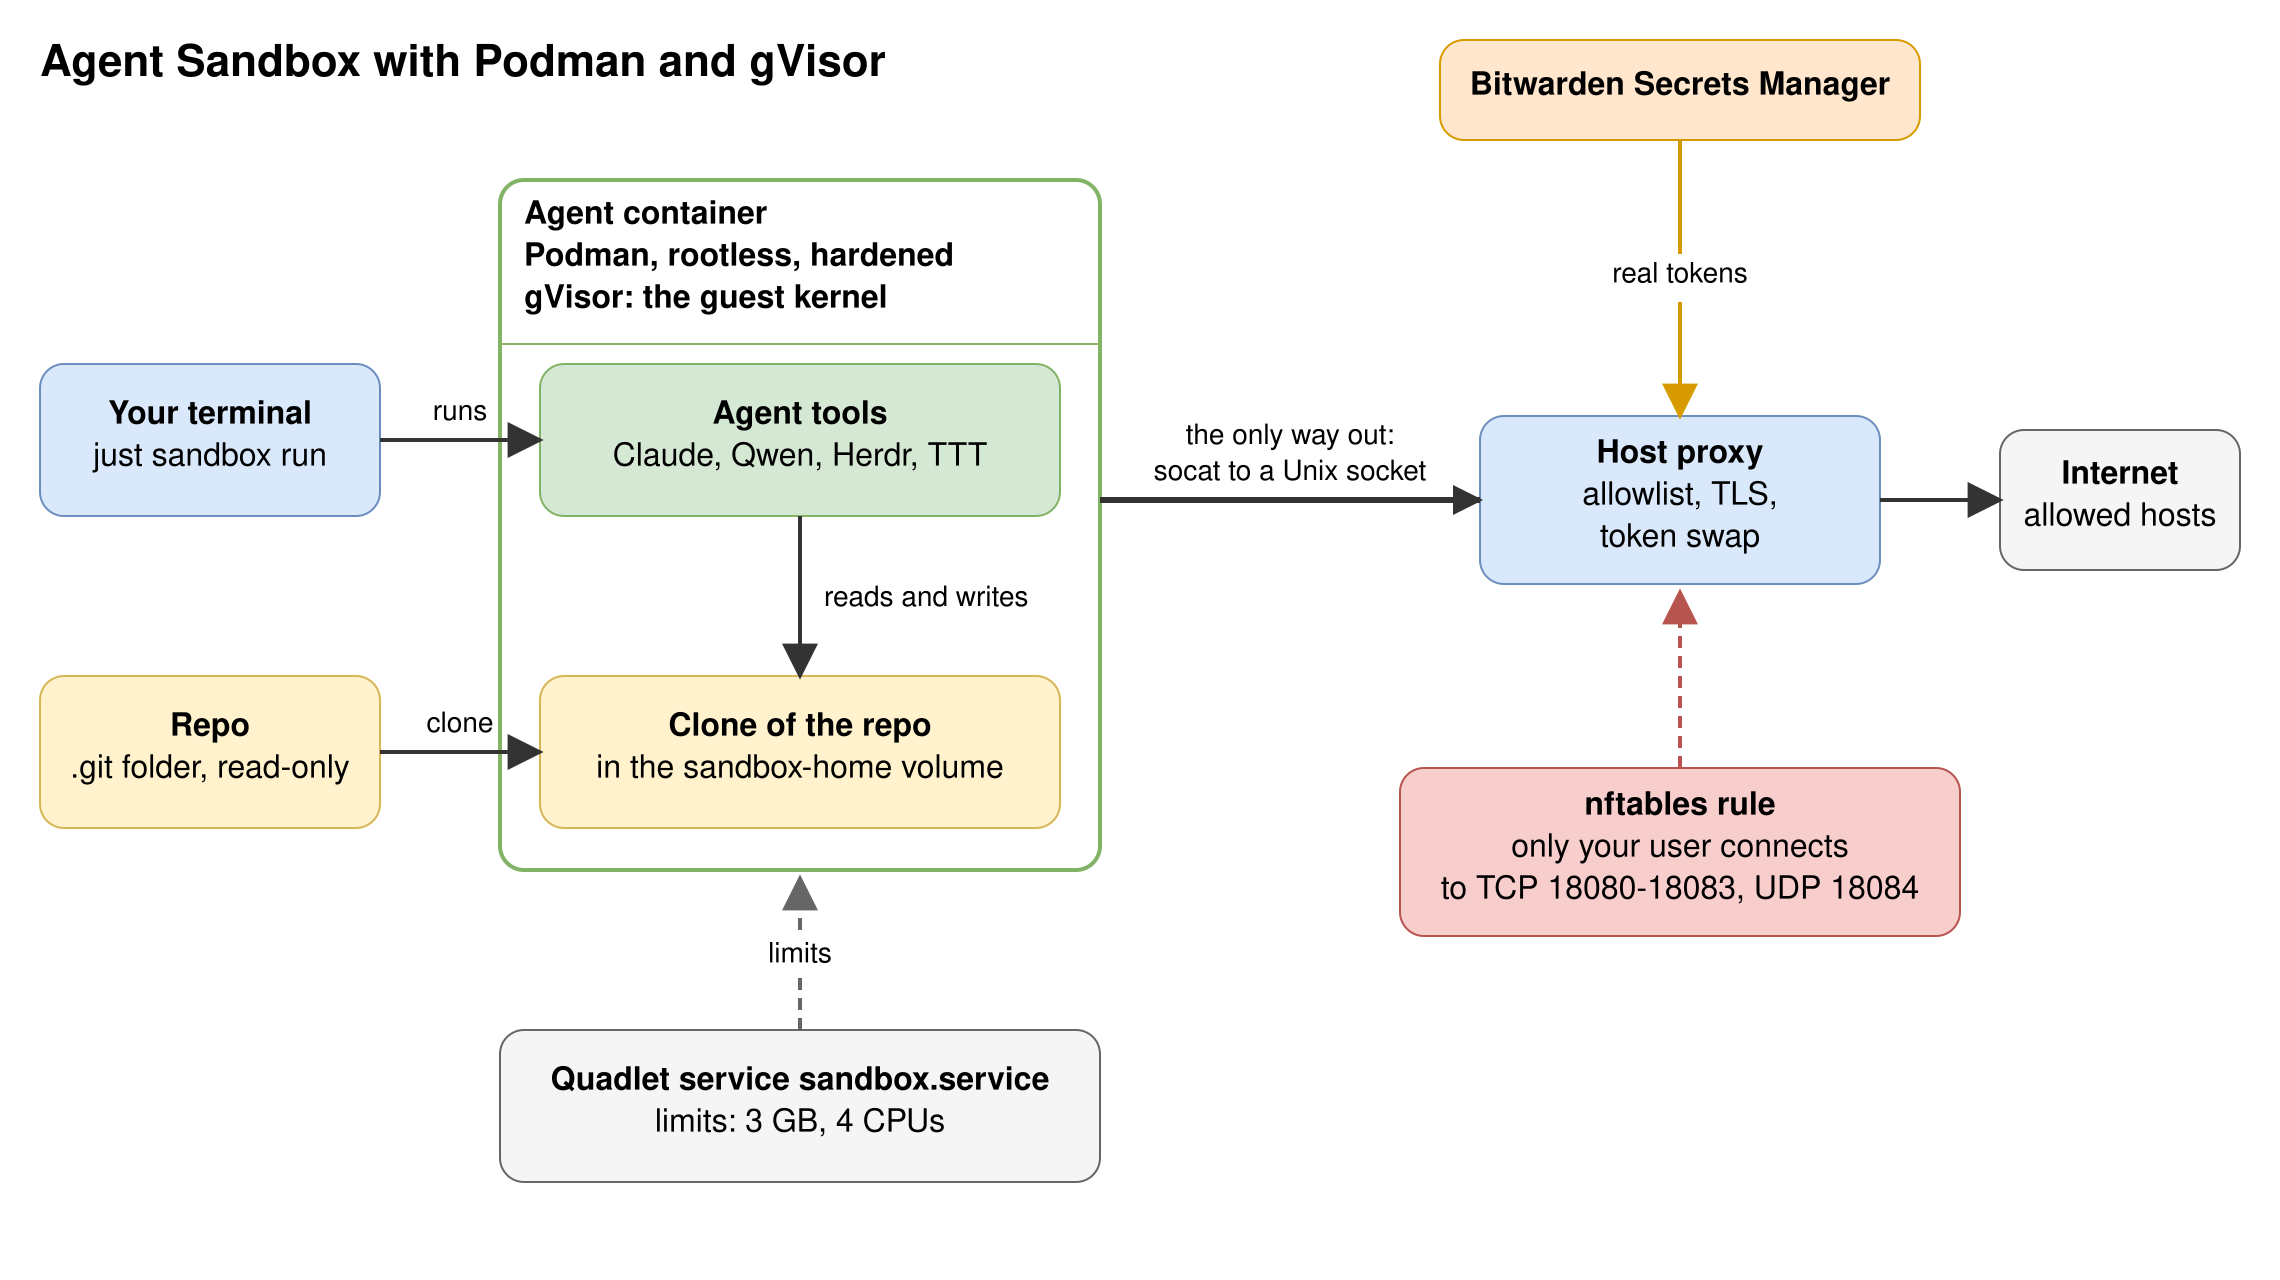
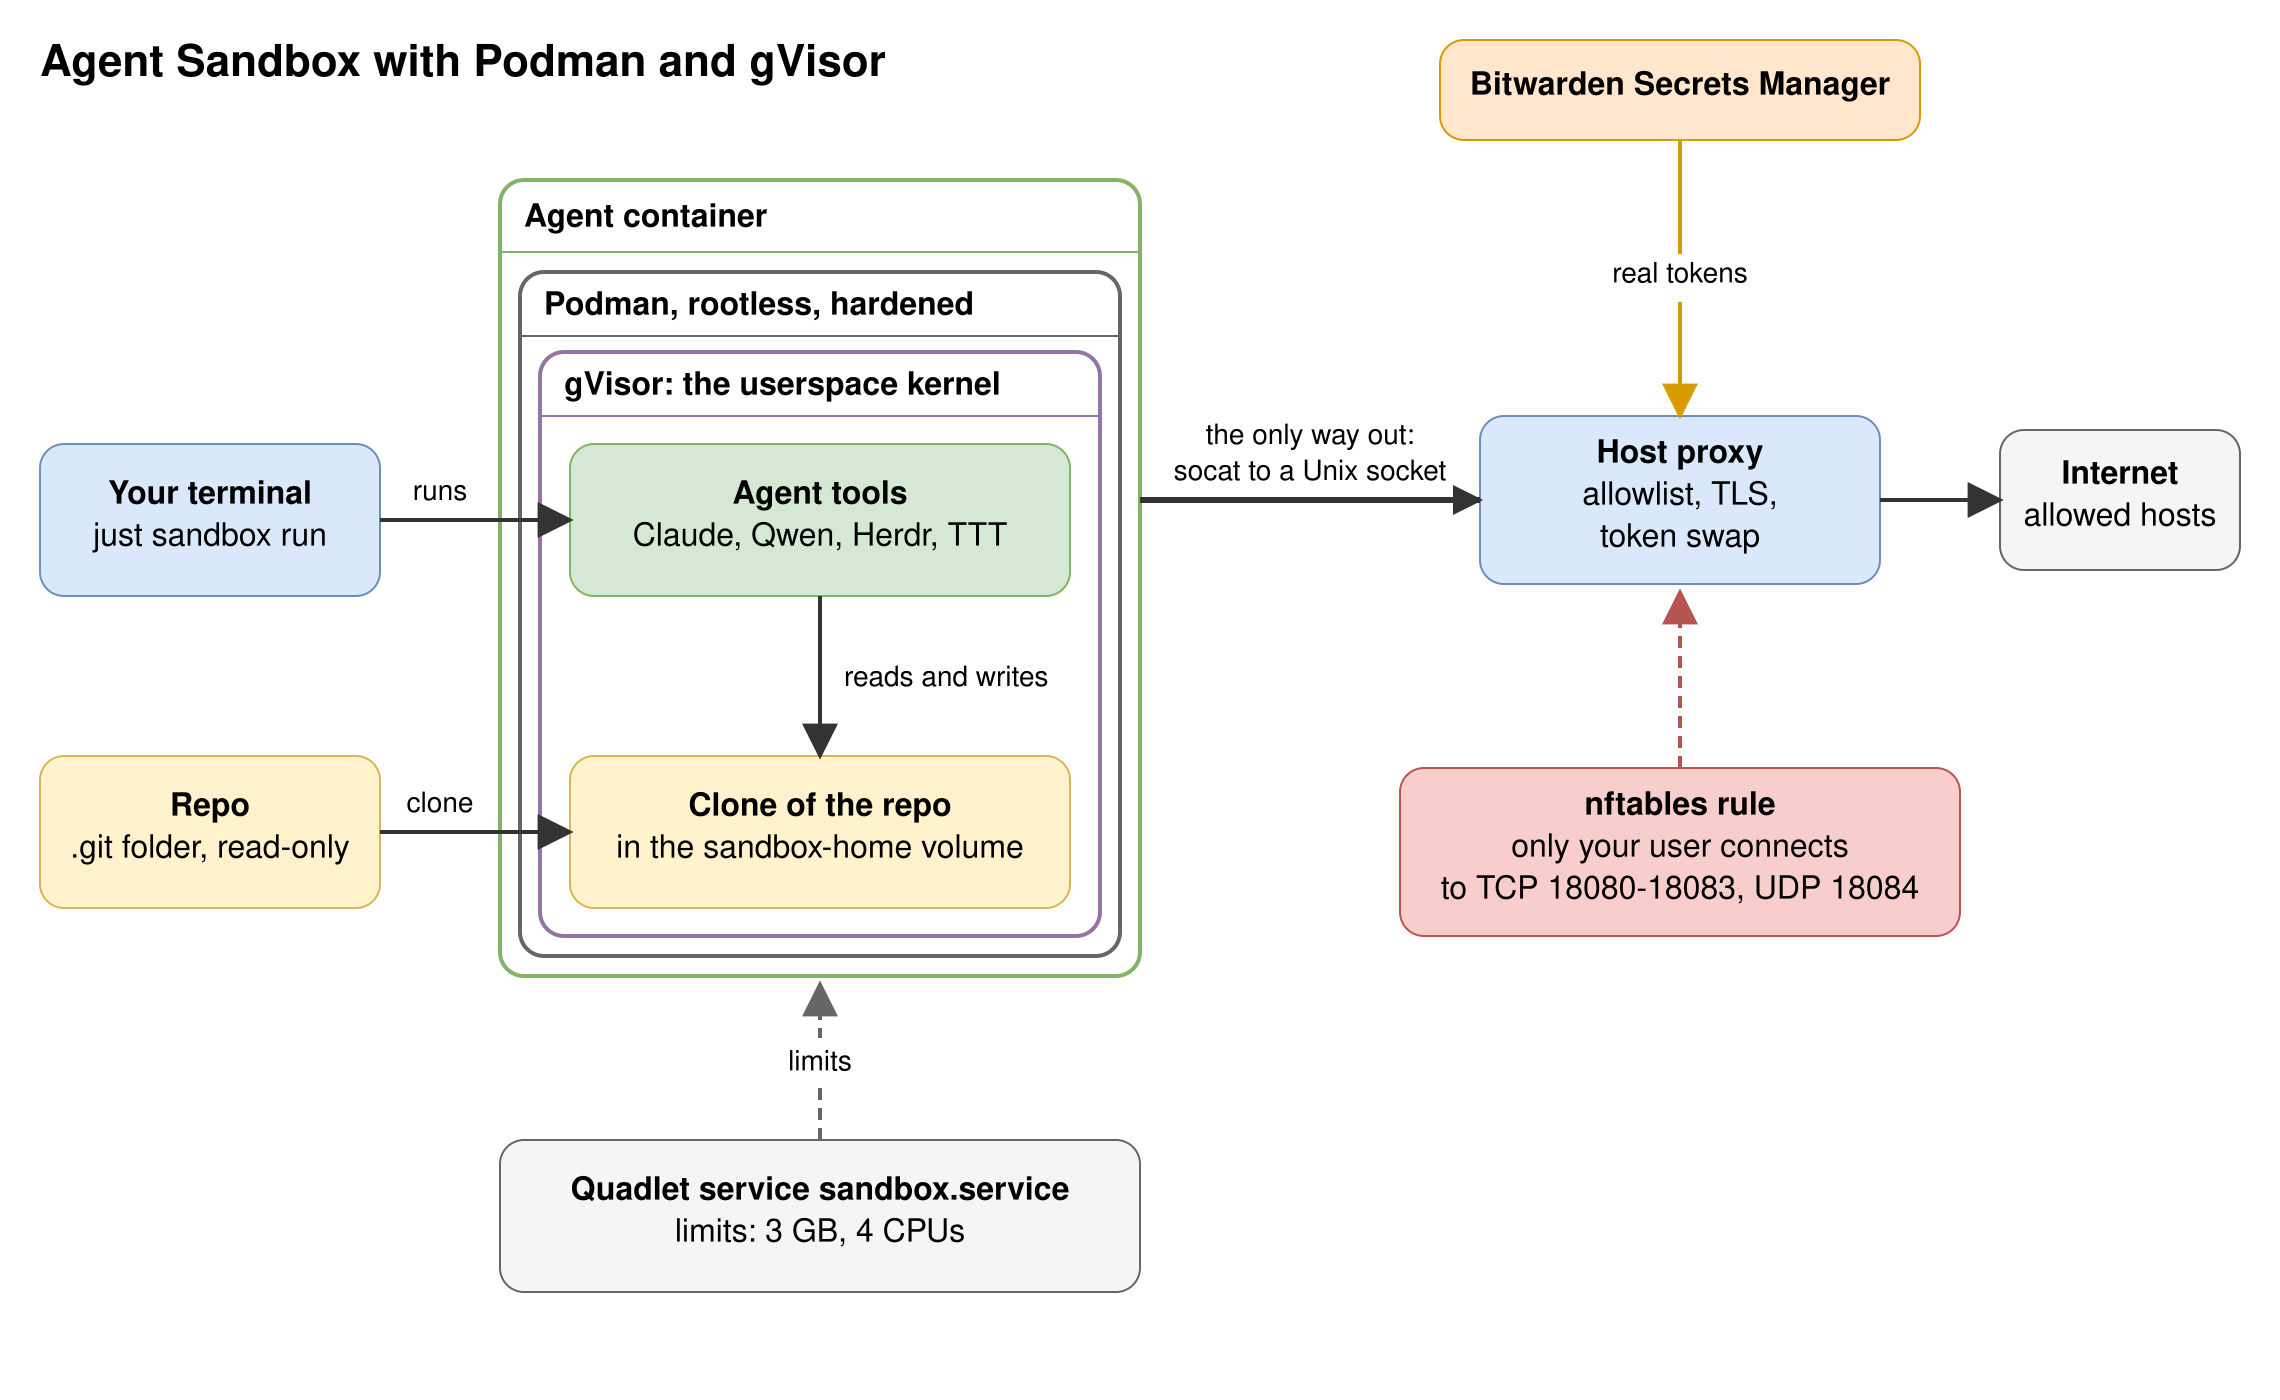
sandbox: show the container as three nested boxes in the architecture diagram
The outer box has the name Agent container. Inside it, a Podman level
(rootless, hardened) holds a gVisor box that is labeled the userspace
kernel. The agent tools and the clone of the repo sit in the gVisor box.

diff --git a/.sandbox/docs/diagrams/README.md b/.sandbox/docs/diagrams/README.md
@@ -2,7 +2,7 @@
 
 | File | Use |
 |---|---|
-| `architecture.drawio` | The source of the architecture diagram. It shows your terminal and the repo. It shows the agent container (rootless Podman, hardened, in gVisor) with the agent tools and the clone of the repo in the volume `sandbox-home`. The agent tools work in that clone. A Quadlet service holds the limits of the container. It shows the only way out, the host proxy (allowlist, TLS and token swap), Bitwarden Secrets Manager and the Internet. An nftables rule lets only your user connect to the ports of the proxy. The label of the only way out names the `socat` relay and the Unix socket. The path in detail is in `sandbox-network.drawio`. |
+| `architecture.drawio` | The source of the architecture diagram. It shows your terminal and the repo. It shows the agent container as three nested boxes: the outer box is the agent container, inside it is the Podman level (rootless, hardened), and inside that is gVisor, the userspace kernel. The agent tools and the clone of the repo in the volume `sandbox-home` sit in the gVisor box. The agent tools work in that clone. A Quadlet service holds the limits of the container. It shows the only way out, the host proxy (allowlist, TLS and token swap), Bitwarden Secrets Manager and the Internet. An nftables rule lets only your user connect to the ports of the proxy. The label of the only way out names the `socat` relay and the Unix socket. The path in detail is in `sandbox-network.drawio`. |
 | `architecture.svg` | The diagram as a plain SVG: real `<text>` elements, a white background and no `foreignObject`. It is drawn from the coordinates of the `.drawio` file. The export of draw.io wraps each label in `foreignObject` and uses `light-dark()` colors. Many viewers do not draw them. |
 | `architecture.png` | The PNG of the SVG, 2x with a white background. Make it with `rsvg-convert -z 2 -b white architecture.svg -o architecture.png`. |
 | `sandbox-network.drawio` | The source of the network diagram. It shows the path from the agent tools to the internet. The path has the empty container network namespace, the gVisor sentry with `socat`, the gVisor gofer, the file `proxy.sock`, `sandbox-bridge.service`, iron-proxy and the allowed hosts. Each line has a label for its carrier (TCP, Unix socket or HTTPS). A red box shows the firewall rule on the proxy ports. |
